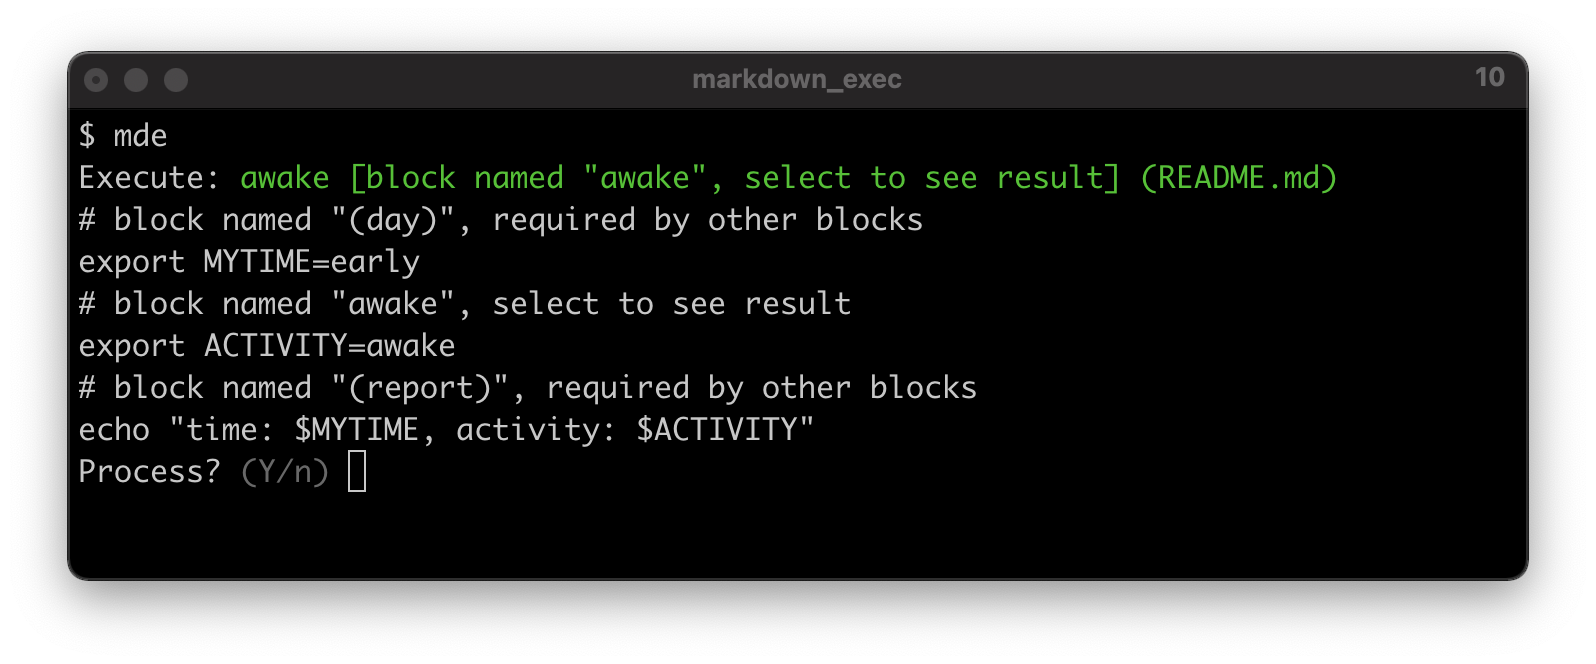
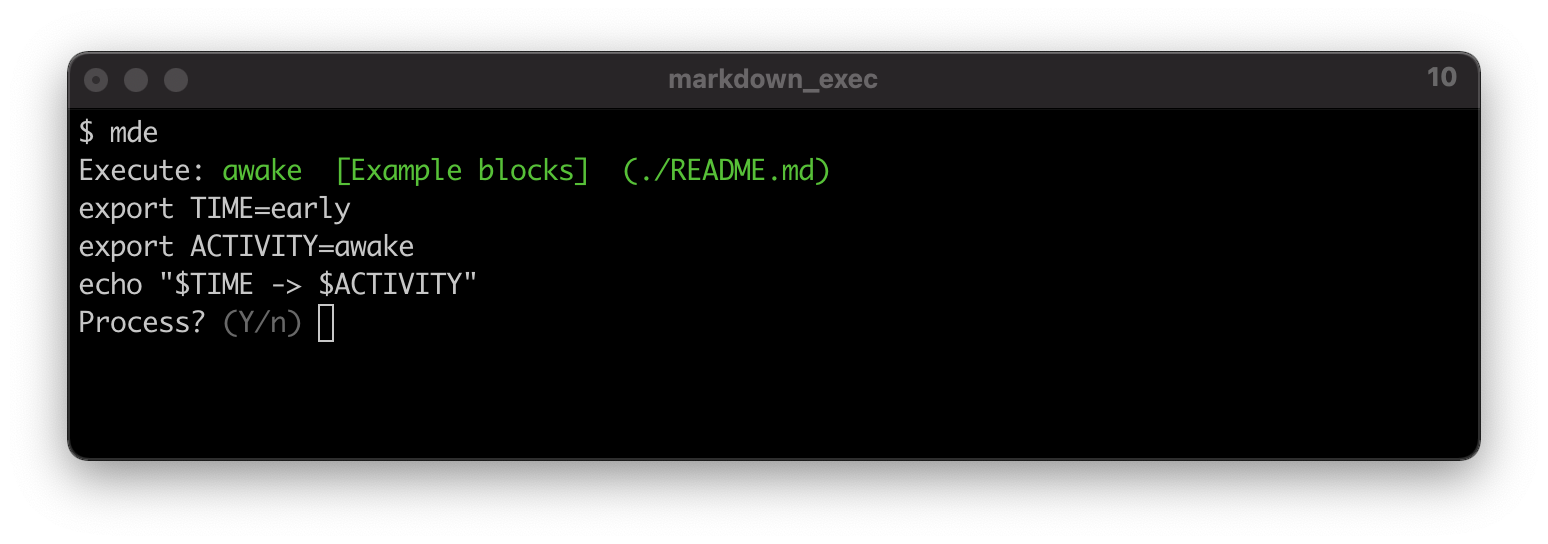
Hide blocks with parentheses in the name
Accept file or folder as first optional positional argument.
Hide blocks like "(name)". This is useful for blocks that are to be
required and not selected to execute alone.

Changed region(s): [[0.031, 0.0625, 0.9612, 0.75], [0.031, 0.8125, 0.9612, 0.9062], [0.3101, 0.4375, 0.5271, 0.5]]

diff --git a/lib/markdown_exec.rb b/lib/markdown_exec.rb
@@ -123,28 +123,35 @@ module MarkdownExec
             #
 
             lm = line.match(/^`{3,}([^`\s]*) *(.*)$/)
-
             do1 = false
             if opts[:bash_only]
               do1 = true if lm && (lm[1] == 'bash')
-            elsif opts[:exclude_expect_blocks]
-              do1 = true unless lm && (lm[1] == 'expect')
             else
               do1 = true
+              do1 = !(lm && (lm[1] == 'expect')) if opts[:exclude_expect_blocks]
+
+              #             if do1 && opts[:exclude_matching_block_names]
+              # puts " MW a4"
+              # puts " MW a4 #{(lm[2].match %r{^:\(.+\)$})}"
+              #               do1 = !(lm && (lm[2].match %r{^:\(.+\)$}))
+              #             end
             end
 
+            in_block = true
             if do1 && (!opts[:title_match] || (lm && lm[2] && lm[2].match(opts[:title_match])))
               current = []
-              in_block = true
               block_title = (lm && lm[2])
             end
-
           end
         elsif current
           current += [line.chomp]
         end
       end
       blocks.tap { |ret| puts "list_blocks_in_file() ret: #{ret.inspect}" if $pdebug }
+      # blocks.map do |block|
+      #   next if opts[:exclude_matching_block_names] && block[:name].match(%r{^\(.+\)$})
+      #   block
+      # end.compact.tap { |ret| puts "list_blocks_in_file() ret: #{ret.inspect}" if $pdebug }
     end
 
     def list_files_per_options(options)
@@ -184,6 +191,15 @@ module MarkdownExec
       Dir.glob(File.join(options[:folder], '*.md'))
     end
 
+    def list_named_blocks_in_file(call_options = {}, &options_block)
+      opts = optsmerge call_options, options_block
+      list_blocks_in_file(opts).map do |block|
+        next if opts[:exclude_matching_block_names] && block[:name].match(/^\(.+\)$/)
+
+        block
+      end.compact.tap { |ret| puts "list_named_blocks_in_file() ret: #{ret.inspect}" if $pdebug }
+    end
+
     def code(table, block)
       all = [block[:name]] + recursively_required(table, block[:reqs])
       all.reverse.map do |req|
@@ -217,7 +233,17 @@ module MarkdownExec
     def make_block_labels(call_options = {})
       opts = options.merge(call_options)
       list_blocks_in_file(opts).map do |block|
+        # next if opts[:exclude_matching_block_names] && block[:name].match(%r{^:\(.+\)$})
+
         make_block_label block, opts
+      end.compact.tap { |ret| puts "make_block_labels() ret: #{ret.inspect}" if $pdebug }
+    end
+
+    def option_exclude_blocks(opts, blocks)
+      if opts[:exclude_matching_block_names]
+        blocks.reject { |block| block[:name].match(/^\(.+\)$/) }
+      else
+        blocks
       end
     end
 
@@ -278,7 +304,7 @@ module MarkdownExec
         executable_name = File.basename($PROGRAM_NAME)
         opts.banner = [
           "#{MarkdownExec::APP_NAME} - #{MarkdownExec::APP_DESC} (#{MarkdownExec::VERSION})",
-          "Usage: #{executable_name} [options]"
+          "Usage: #{executable_name} [filename or path] [options]"
         ].join("\n")
 
         ## menu top: items appear in reverse order added
@@ -293,7 +319,7 @@ module MarkdownExec
           options[:filename] = value
         end
 
-        opts.on('-p PATH', '--folder', 'Path to documents') do |value|
+        opts.on('-p PATH', '--path', 'Path to documents') do |value|
           options[:folder] = value
         end
 
@@ -328,8 +354,16 @@ module MarkdownExec
       end
       option_parser.load # filename defaults to basename of the program without suffix in a directory ~/.options
       option_parser.environment # env defaults to the basename of the program.
-      option_parser.parse! # (into: options)
+      rest = option_parser.parse! # (into: options)
       options_finalize.call options
+
+      if rest.fetch(0, nil)&.present?
+        if Dir.exist?(rest[0])
+          options[:folder] = rest[0]
+        elsif File.exist?(rest[0])
+          options[:filename] = rest[0]
+        end
+      end
 
       ## process
       #
@@ -339,6 +373,7 @@ module MarkdownExec
           bash: true,
           display: true,
           exclude_expect_blocks: true,
+          exclude_matching_block_names: true,
           execute: true,
           prompt: 'Execute',
           struct: true
@@ -375,8 +410,14 @@ module MarkdownExec
       prompt = TTY::Prompt.new(interrupt: :exit)
       pt = "#{opts.fetch(:prompt, nil) || 'Pick one'}:"
 
+      # blocks.map do |block|
+      #   next if opts[:exclude_matching_block_names] && block[:name].match(%r{^\(.+\)$})
+      #   block
+      # end.compact.tap { |ret| puts "list_blocks_in_file() ret: #{ret.inspect}" if $pdebug }
+
       blocks.each { |block| block.merge! label: make_block_label(block, opts) }
-      block_labels = blocks.map { |block| block[:label] }
+      # block_labels = blocks.map { |block| block[:label] }
+      block_labels = option_exclude_blocks(opts, blocks).map { |block| block[:label] }
 
       if opts[:preview_options]
         select_per_page = 3
@@ -406,8 +447,6 @@ module MarkdownExec
       selected = get_block_by_name blocks, sel
       if allow && opts[:execute]
 
-        ## process in script, to handle line continuations
-        #
         cmd2 = cbs.flatten.join("\n")
 
         Open3.popen3(cmd2) do |stdin, stdout, stderr|

diff --git a/test/markdown_exec_test.rb b/test/markdown_exec_test.rb
@@ -11,13 +11,13 @@ class MarkdownExecTest < Minitest::Test
     refute_nil ::MarkdownExec::VERSION
   end
 
+  let(:mp) { MarkdownExec::MarkParse.new options }
   let(:options) do
     {
       filename: 'spec/sample1.md',
       folder: '.'
     }
   end
-  let(:mp) { MarkdownExec::MarkParse.new options }
 
   def test_exist
     assert_equal true, File.exist?(options[:filename])
@@ -203,6 +203,23 @@ class MarkdownExecTest < Minitest::Test
     ], (exclude1_blocks.map { |block| block.slice(:name, :title) })
   end
 
+  ###
+  let(:exclude2_blocks) do
+    mp.list_named_blocks_in_file(
+      bash: true,
+      exclude_matching_block_names: true,
+      filename: 'spec/exclude2.md',
+      struct: true
+    )
+  end
+
+  def test_parse_exclude2
+    assert_equal [
+      { name: 'one' },
+      { name: 'three' }
+    ], (exclude2_blocks.map { |block| block.slice(:name) })
+  end
+
   let(:default_filename) { 'file0' }
   let(:default_folder) { 'folder0' }
   let(:specified_filename) { 'file1' }
@@ -214,8 +231,10 @@ class MarkdownExecTest < Minitest::Test
   end
 
   def test_target_default_folder_and_default_filename2
-    ft = ['spec/bash1.md', 'spec/bash2.md', 'spec/exclude1.md', 'spec/exec1.md', 'spec/heading1.md', 'spec/sample1.md',
-          'spec/title1.md']
+    ft = ['spec/bash1.md', 'spec/bash2.md',
+          'spec/exclude1.md', 'spec/exclude2.md',
+          'spec/exec1.md', 'spec/heading1.md',
+          'spec/sample1.md', 'spec/title1.md']
     assert_equal ft, mp.list_files_specified(nil, 'spec', 'README.md', '.')
   end
 
@@ -231,11 +250,11 @@ class MarkdownExecTest < Minitest::Test
 
   def test_target_specified_folder_and_filename
     ft = ["#{specified_folder}/#{specified_filename}"]
-    assert_equal ft, mp.list_files_specified(specified_filename, specified_folder, default_filename, default_folder, ft)
+    assert_equal ft,
+                 mp.list_files_specified(specified_filename, specified_folder, default_filename, default_folder, ft)
   end
 
   def test_target_specified_folder
-    # ft = ["#{specified_folder}/#{default_filename}"]
     ft = ["#{specified_folder}/any.md"]
     assert_equal ft, mp.list_files_specified(nil, specified_folder, default_filename, default_folder, ft)
   end

diff --git a/lib/markdown_exec/version.rb b/lib/markdown_exec/version.rb
@@ -4,5 +4,5 @@ module MarkdownExec
   APP_NAME = 'MDE'
   APP_DESC = 'Markdown block executor'
   GEM_NAME = 'markdown_exec'
-  VERSION = '0.2.0'
+  VERSION = '0.2.1'
 end

diff --git a/README.md b/README.md
@@ -25,9 +25,11 @@ Displays help information.
 Process `README.md` file in the current folder. Displays all the blocks in the file and allows you to select using [up], [down], and [return]. Press [ctrl]-c to abort selection.
 
 `mde -f my.md`
+`mde my.md`
 Select a block to execute from `my.md`.
 
 `mde -p .`
+`mde .`
 Select a markdown file in the current folder. Select a block to execute from that file.
 
 `mde --list-blocks`
@@ -52,31 +54,26 @@ e.g. Use to set the default file for the current folder.
 
 # Example blocks
 
-When prompted, select either the `awake` or `asleep` block. The standard output confirms which required were blocks were included. Naming "hidden" blocks with parentheses "(" and ")" is a convention used here to re-inforce the purpose of the named blocks.
+When prompted, select either the `awake` or `asleep` block.
 
 ``` :(day)
-# block named "(day)", required by other blocks
-export MYTIME=early
+export TIME=early
 ```
 
 ``` :(night)
-# block named "(night)", required by other blocks
-export MYTIME=late
+export TIME=late
 ```
 
 ``` :awake +(day) +(report)
-# block named "awake", select to see result
 export ACTIVITY=awake
 ```
 
 ``` :asleep +(night) +(report)
-# block named "asleep", select to see result
 export ACTIVITY=asleep
 ```
 
 ``` :(report)
-# block named "(report)", required by other blocks
-echo "time: $MYTIME, activity: $ACTIVITY"
+echo "$TIME -> $ACTIVITY"
 ```
 
 ## Example blocks

diff --git a/CHANGELOG.md b/CHANGELOG.md
@@ -1,5 +1,10 @@
 ## [Unreleased]
 
+## [0.2.1] - 2022-03-12
+
+- Accept file or folder as first optional positional argument.
+- Hide blocks with parentheses in the name, like "(name)". This is useful for blocks that are to be required and not selected to execute alone.
+
 ## [0.2.0] - 2022-03-12
 
 - Improve processing of file and path sepcs.

diff --git a/spec/exclude2.md b/spec/exclude2.md
@@ -1,0 +1,9 @@
+``` :one
+a
+```
+``` :(two)
+b
+```
+``` :three
+c
+```
